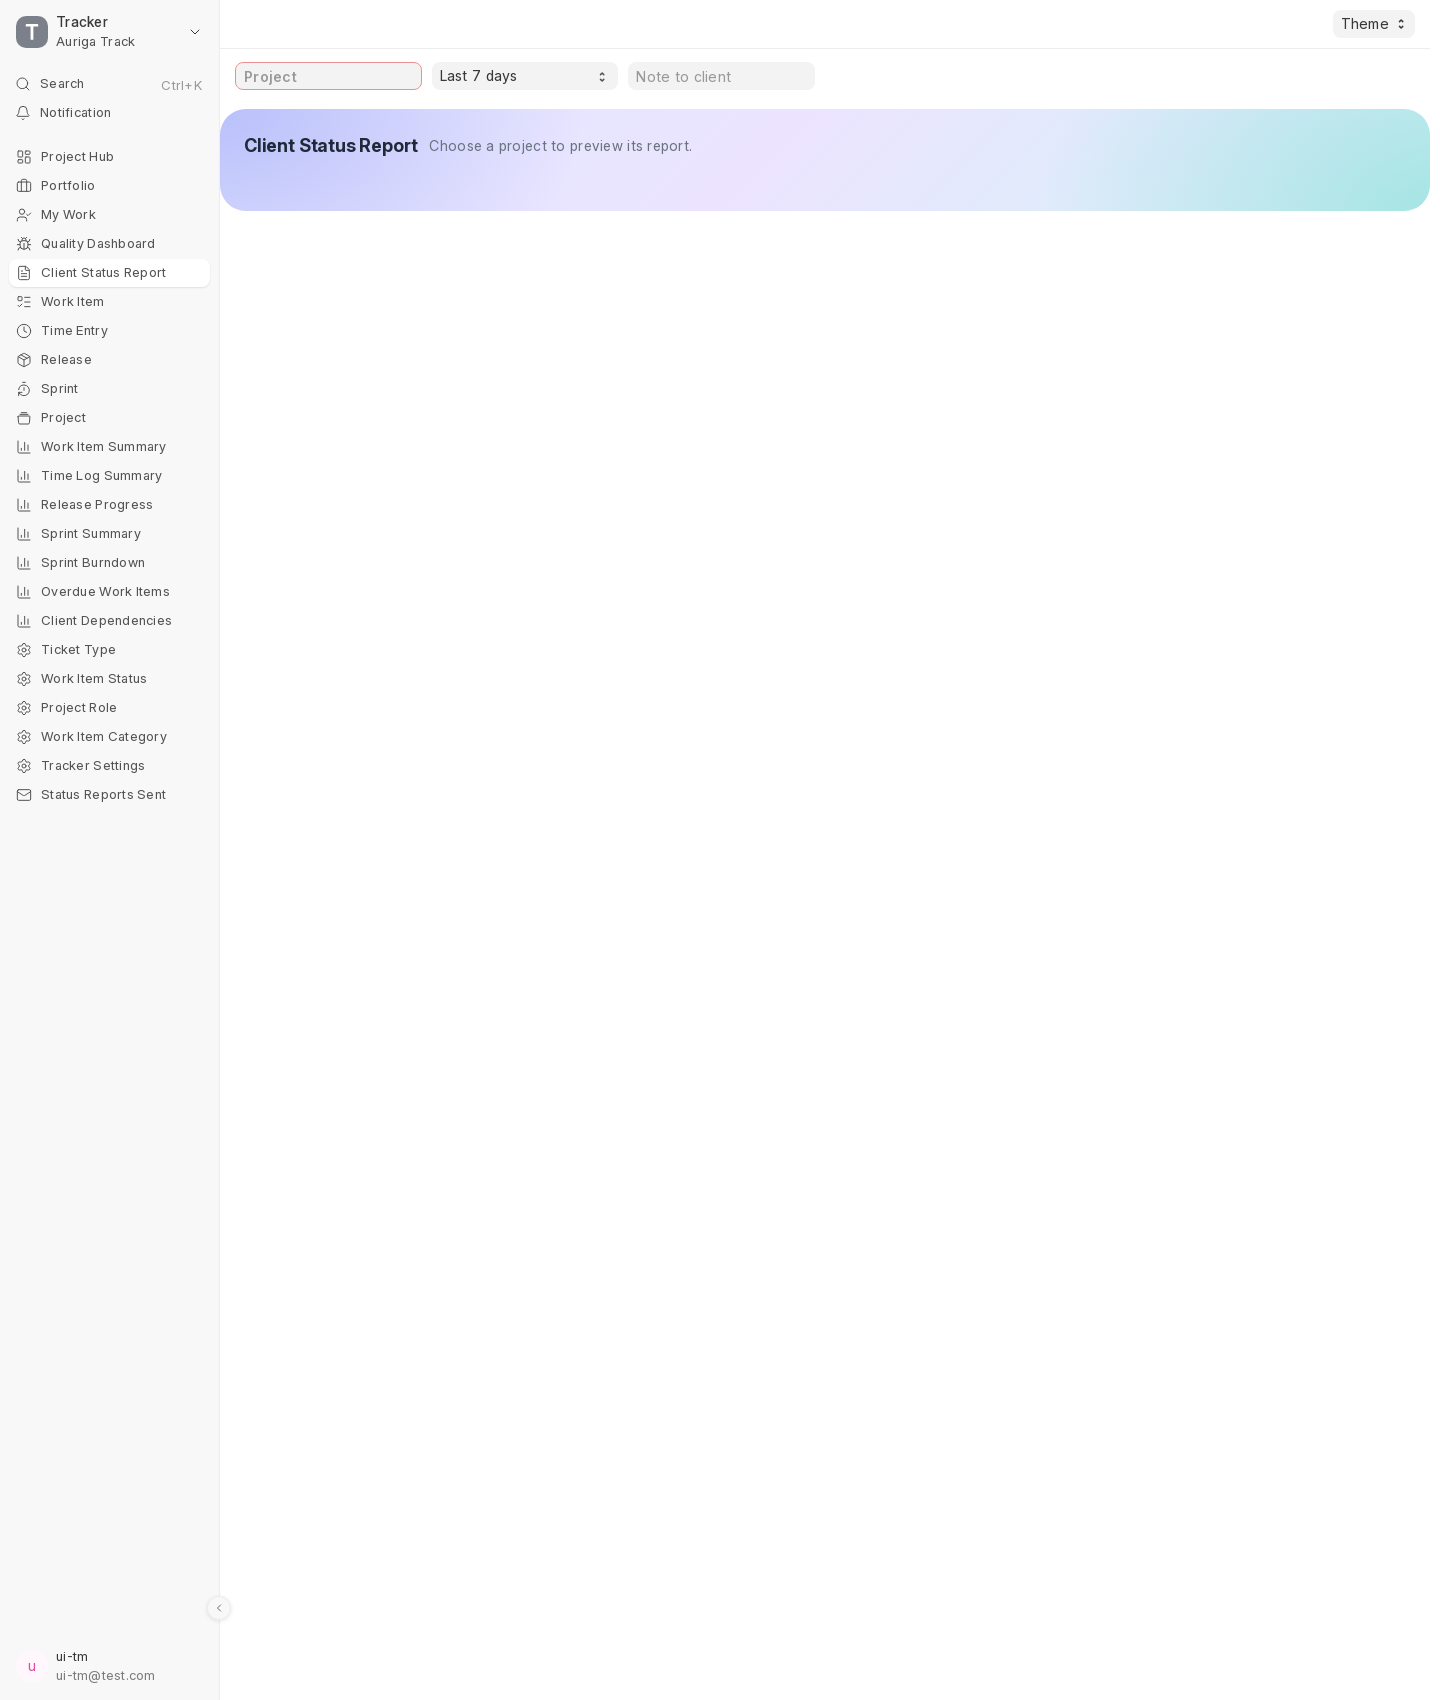
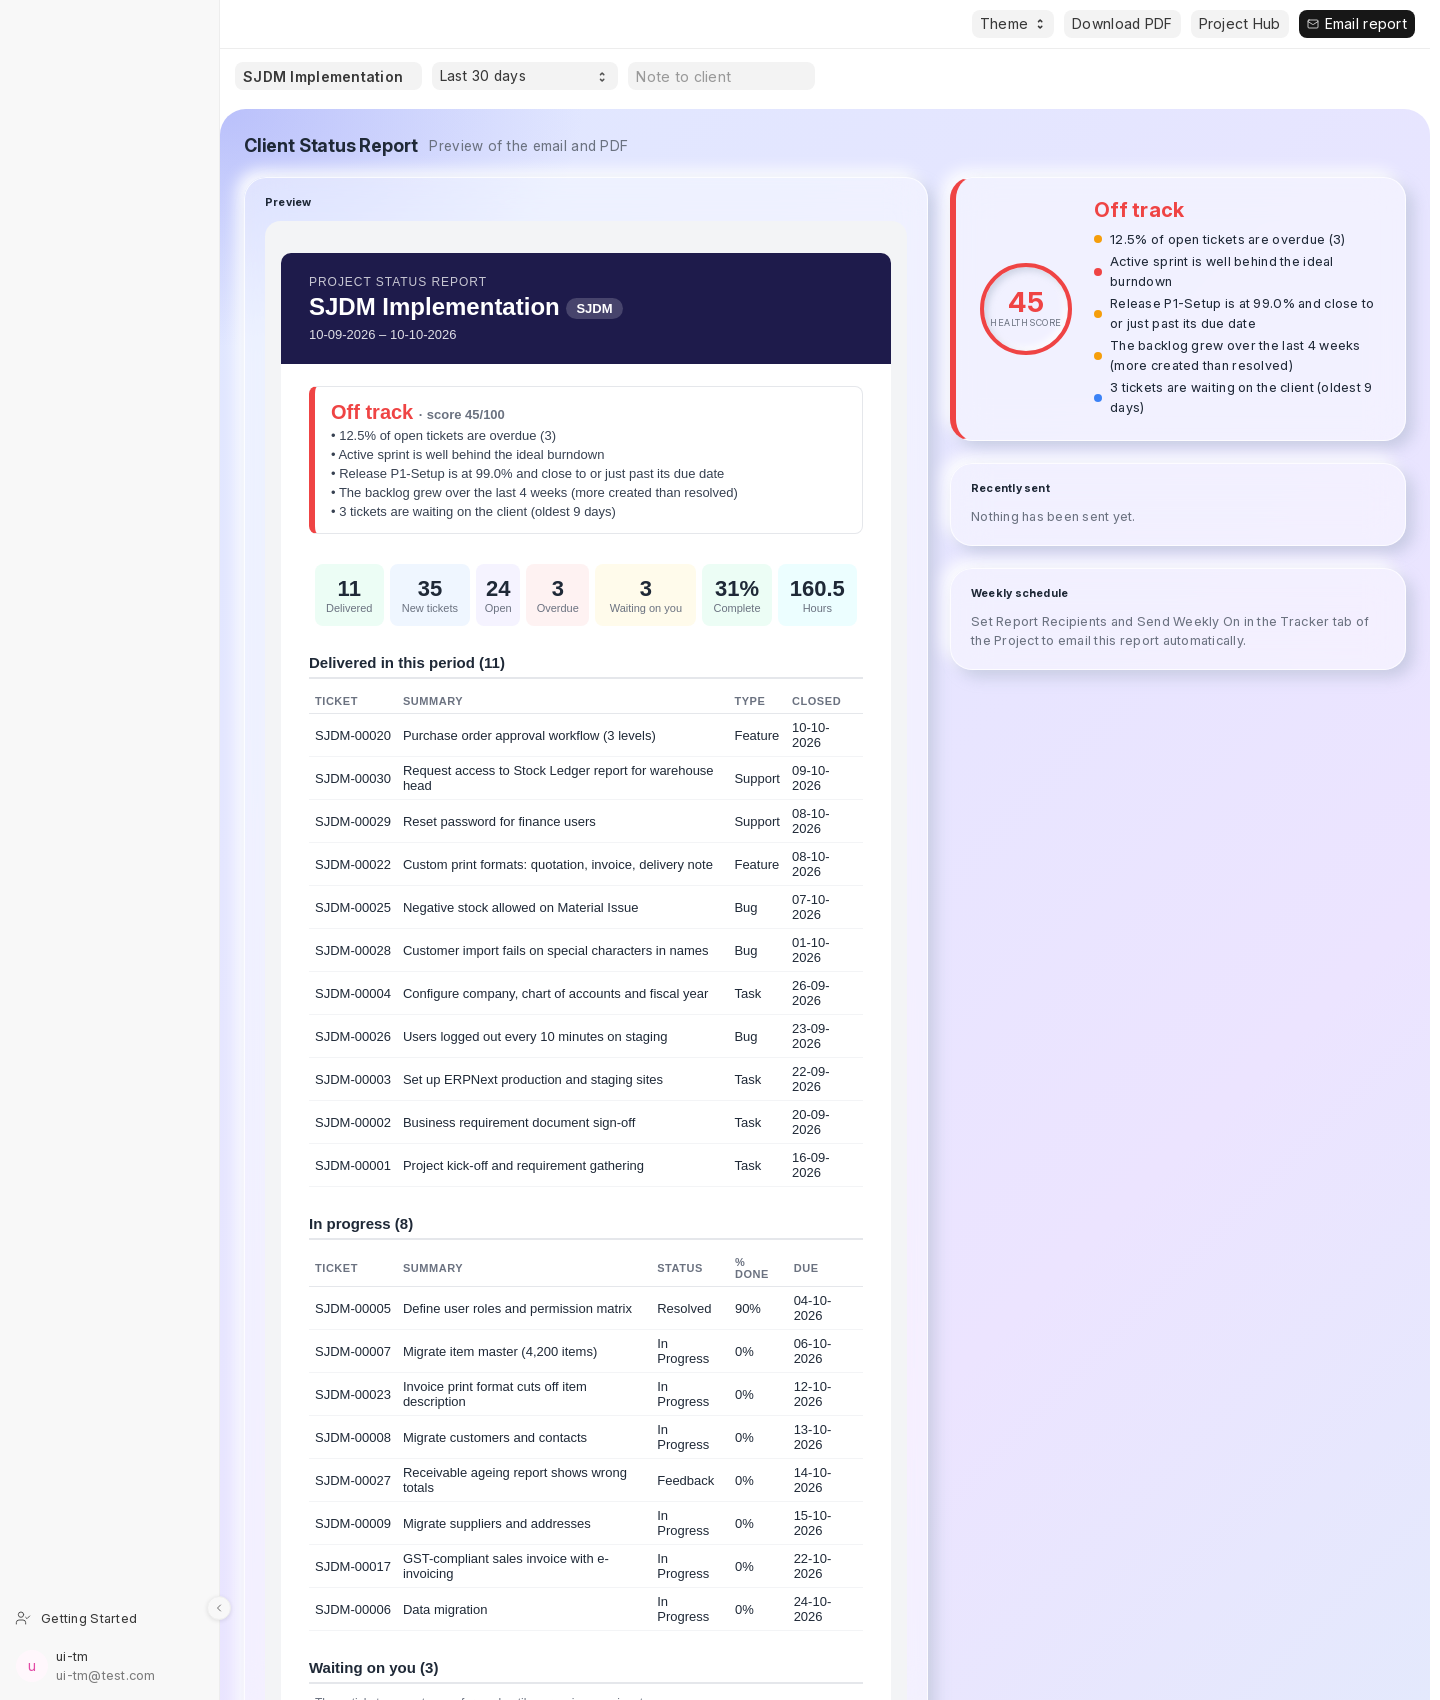
README: feature table, Kanban, Gantt and theme sections; status report opens with a project

diff --git a/auriga_track/tracking/page/status_report/status_report.js b/auriga_track/tracking/page/status_report/status_report.js
@@ -40,7 +40,22 @@ class StatusReport {
 		ui.applyTheme(this.$body);
 		ui.addThemeMenu(this.page, () => this.show(this.project_field.get_value()));
 		if (project && decodeURIComponent(project) !== this.project_field.get_value()) this.project_field.set_value(decodeURIComponent(project));
+		else if (!this.project_field.get_value()) this.preselect_project();
 		else this.refresh();
+	}
+
+	// Open with a project instead of a blank page: the last one used, else the first one the user can see.
+	preselect_project() {
+		let last = "";
+		try {
+			last = localStorage.getItem("auriga_status_project") || "";
+		} catch (e) {
+			// storage can be blocked; fall back to the first project
+		}
+		(last ? Promise.resolve(last) : frappe.xcall("auriga_track.tracking.api.get_hub_projects").then((rows) => (rows[0] ? rows[0].name : ""))).then((name) => {
+			if (name) this.project_field.set_value(name);
+			else this.refresh();
+		});
 	}
 
 	apply_period() {
@@ -60,6 +75,11 @@ class StatusReport {
 
 	on_project_change() {
 		this.recipients = null;
+		try {
+			if (this.project_field.get_value()) localStorage.setItem("auriga_status_project", this.project_field.get_value());
+		} catch (e) {
+			// storage can be blocked
+		}
 		this.refresh();
 	}
 

diff --git a/README.md b/README.md
@@ -10,6 +10,25 @@ adding project members.
 * Module: **Tracking**. Nothing in Frappe or ERPNext core is modified: everything is added through
   hooks, Custom Fields, Custom DocPerms and `doc_events`.
 
+## Features
+
+| Area | What you get |
+|---|---|
+| Tickets (Work Items) | bugs, features, tasks and support requests with parent/child tickets, priorities, categories, start/due dates, estimates, relations and blockers; per-project ticket numbers such as `SJDM-00001` |
+| Ticket Types and workflow | configurable ticket types with default status, *Counts as Defect* flag and allowed status transitions per project role |
+| Project Hub | project-first screen: users only see projects they belong to (or public ones) and work inside the chosen project |
+| Roles and access | project roles with nine capability flags; private projects stay hidden from outsiders |
+| Sprints | start/end dates, goal, add tickets to a sprint, Start / Complete, Sprint Board and Burndown |
+| Releases | group tickets into versions with progress and due date |
+| Kanban board | one column per status, drag a ticket to change its status (blocked moves are refused) |
+| Gantt chart | tickets drawn from start date to due date, filtered to the project |
+| Time tracking | log hours per ticket with activity type and a *Billable* flag; limits per entry/day and lock days |
+| Dependent on Client | tick a ticket that waits on the client; tracked with a note and *Waiting since* and counted everywhere |
+| Dashboards | Project Health, Portfolio, My Work, Quality and Client Status Report |
+| Themes and range | 8 themes in light and dark and a 1 month / 3 months / 6 months / Overall range, shared by all dashboards |
+| Reports | Work Item Summary, Time Log Summary, Release Progress, Overdue Work Items, Sprint Summary, Sprint Burndown, Client Dependencies |
+| Email | email a project's status report (preview, PDF, weekly schedule), daily due-date digests, optional email-to-ticket intake |
+
 ## Screenshots
 
 All screenshots use the sample SJDM project data. Every dashboard shares one theme and one date range
@@ -47,6 +66,32 @@ shown separately from tickets with us on every screen.
 **Client Dependencies** is the drill-down report listing every open ticket waiting on the client, for how long and what is needed.
 
 ![Client Dependencies report](docs/screenshots/08-client-dependencies-report.png)
+
+**Kanban board** has one column per ticket status. Drag a card to move the ticket; a move the workflow does not allow is refused. Open it from the hub's *Views* menu to see only that project.
+
+![Kanban board](docs/screenshots/09-kanban-board.png)
+
+**Gantt chart** draws each ticket from its start date to its due date, so you can see overlaps and slips. Zoom with the Quarter Day, Day, Week, Month and Year buttons.
+
+![Gantt chart](docs/screenshots/10-gantt-chart.png)
+
+### Themes
+
+Pick a theme from the *Theme* menu on any dashboard. It applies to all five dashboards, in light and dark, and is remembered per browser. Besides the first three (Glass + Soft, Soft UI and Minimal Clean) there are five more:
+
+| Theme | Look | Best for |
+|---|---|---|
+| **Flat - Solid colour** | plain white cards on a cool grey page, solid coloured accents, no shadows | everyday use, closest to the standard Desk |
+| **Flat - Tinted** | flat cards on a near-white page with soft tinted accents | calm, low-contrast reading |
+| **Flat - Outline** | white page, cards drawn with thin outlines only | printing and screen sharing |
+| **Bento - Pastel** | rounded tiles in different pastel colours on a warm page | friendly client demos |
+| **Bento - Vivid** | large, saturated coloured tiles of different sizes | showing headline numbers at a glance |
+
+![Flat - Solid colour](docs/screenshots/theme-flat-solid.png)
+![Flat - Tinted](docs/screenshots/theme-flat-tint.png)
+![Flat - Outline](docs/screenshots/theme-flat-line.png)
+![Bento - Pastel](docs/screenshots/theme-bento-pastel.png)
+![Bento - Vivid](docs/screenshots/theme-bento-vivid.png)
 
 ## Install
 
